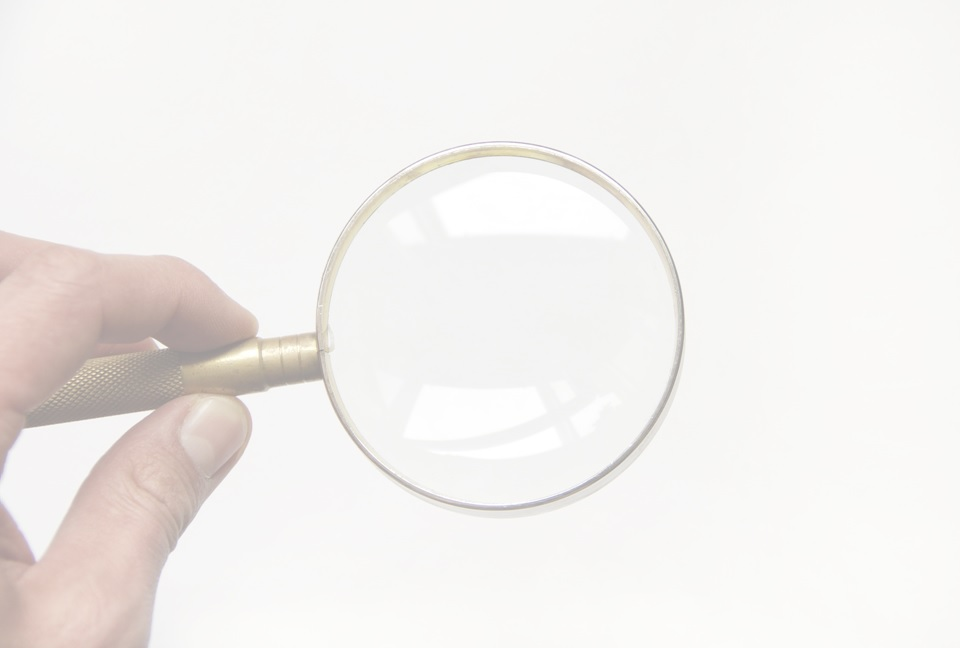
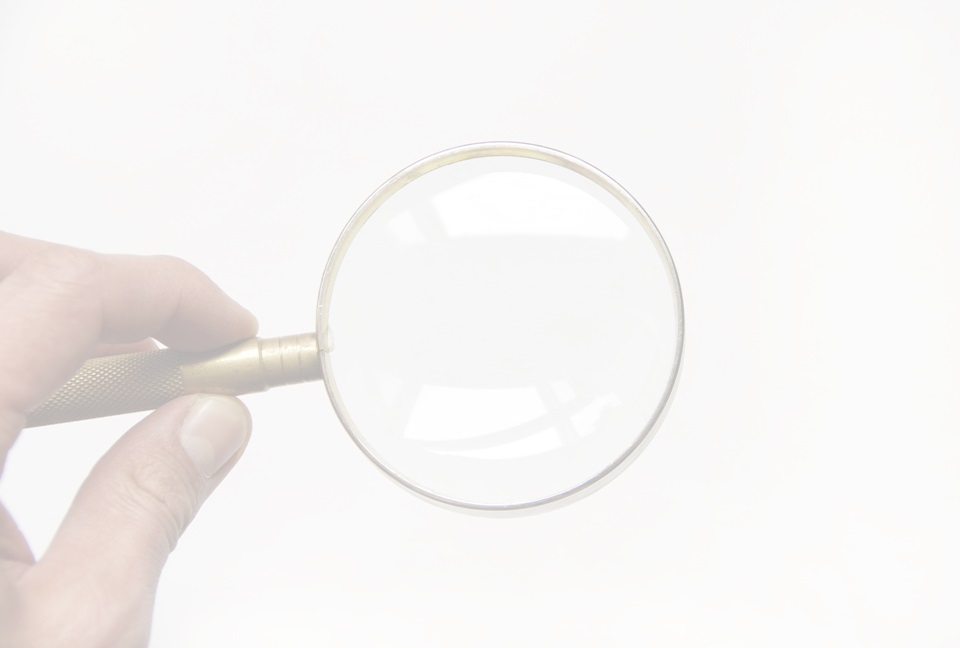
updated employment page fonts and made about page image more transparent

Changed region(s): [[0.0, 0.4938, 0.3438, 0.679], [0.0, 0.8333, 0.0312, 0.8642]]

diff --git a/src/daemployment.html b/src/daemployment.html
@@ -54,9 +54,10 @@
 
     <div class="page-title"><h2>Employment Opportunities</h2></div>     <br/>
 
-    <h4>Physicians</h4>
+    <h4 style="color: #2B547E">Physicians</h4>
     There are currently no positions available. <br/>
-    <h4>CRNAs</h4>
+    <br/><hr>
+    <h4 style="color: #2B547E">CRNAs</h4>
     Dominion Anesthesia offers a competitive salary and benefits package, including access to free and subsidized
     continuing education opportunities, traditional and Roth 401k plans, and free employee healthcare. We are always
     accepting CVs from qualified CRNAs, however we do not work with recruitment agencies. Click <a href="./documents/crna.pdf">here</a> [PDF] to view the

diff --git a/src/css/dominion.css b/src/css/dominion.css
@@ -82,7 +82,6 @@ div#full {
 
 .about{
     font-size: 20px;
-    font-family:'Palantino Linotype';
 
 }
 
